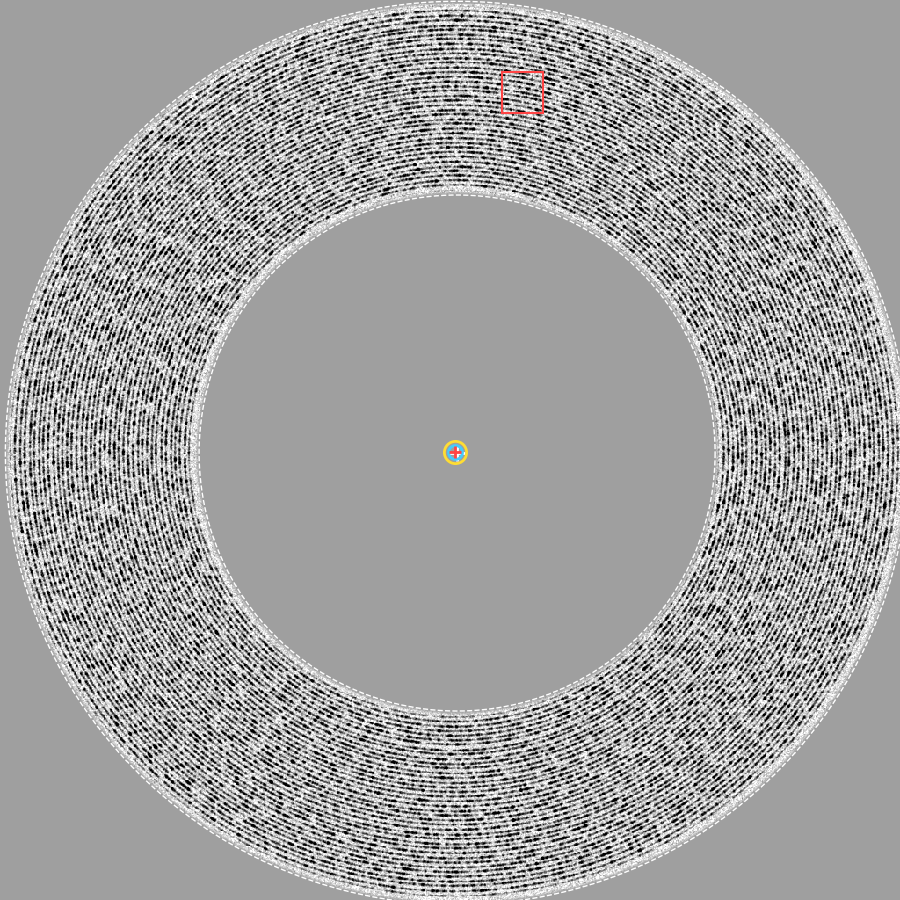
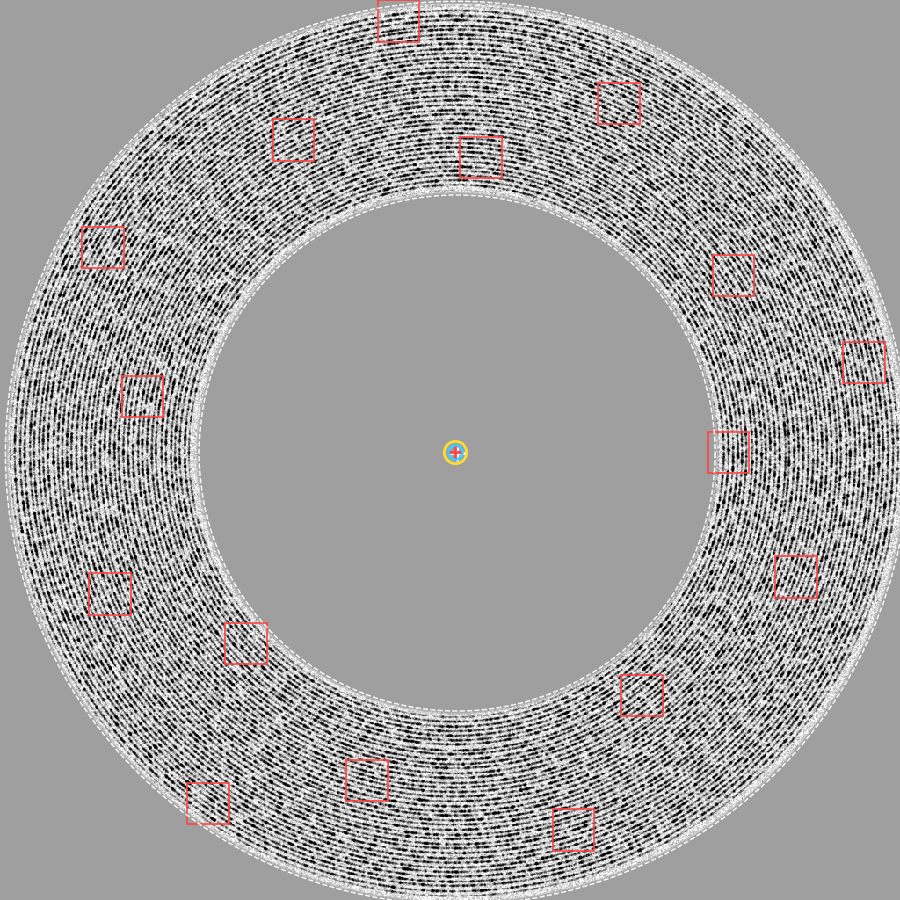
Card report step e: 16 clickable detail spots, polylines
Step a draws a box for each of 16 pre-built 256-px details (evenly spaced
turns at golden-angle steps; up to 4 moved to the longest wrong-groove
runs; crops clamped to the frame); clicking a box shows it in step e. The
details draw trace and truth as polylines over the whole spiral, clipped
by the axes, wrong-groove columns in magenta.

diff --git a/card.html b/card.html
@@ -12,6 +12,11 @@ th { color: #aaa; font-weight: 500; padding: 2px 8px; border-bottom: 1px solid #
 td { padding: 2px 8px; text-align: right; }
 th:first-child, td:first-child, td.src, th.src { text-align: left; }
 td.src { color: #888; }
+.pick { position: relative; width: 900px; border: 1px solid #333; line-height: 0; }
+.pick img { border: none; }
+.spot { position: absolute; box-sizing: border-box; border: 2px solid transparent; cursor: pointer; }
+.spot:hover { border-color: rgba(255,255,255,0.6); }
+.spot.on { border-color: #fff; }
 a { color: #8cf; } .note { color: #888; font-size: 12px; max-width: 1300px; }
 .w { color: #fff } .c { color: #4cf } .y { color: #fd3 } .r { color: #f44 } .g { color: #3e6 } .m { color: #f6f }
 </style></head><body>
@@ -25,13 +30,15 @@ Showcase: preset <b>Typical</b>, seed 1. <a href="index.html">← Experiments</a
 <p class="note">Errors against the simulated card's truth, full-resolution px. Ranges over the seeds listed.</p>
 
 <h2>1. Low resolution (1024², ×5.42): spacing, center, phase</h2>
-<div class="step"><img src="card/img/a_input.png"><div class="panel"><h4>a. Input: masked to the hand-marked annulus</h4><p>The full-res height map averaged over each low-res pixel (cv2.INTER_AREA), times a soft mask from the hand-marked circles (dashed), minus its mean, unit rms. An idealized card: flat, grain only.</p><p><span class='w'>White +</span> hand mark, <span class='c'>cyan</span> low-res fit, <span class='y'>yellow</span> refit, <span class='r'>red +</span> truth; red box: the detail spot.</p><p><span class='num'>Hand mark 12.1 px from the true center.</span></p></div></div>
+<div class="step"><div class="pick"><img src="card/img/a_input.png"><div class="spot" data-k="0" title="spot 1" style="left:78.634%;top:47.955%;width:4.612%;height:4.612%"></div><div class="spot" data-k="1" title="spot 2" style="left:25.005%;top:69.213%;width:4.612%;height:4.612%"></div><div class="spot" data-k="2" title="spot 3" style="left:51.162%;top:15.204%;width:4.612%;height:4.612%"></div><div class="spot" data-k="3" title="spot 4" style="left:69.015%;top:74.995%;width:4.612%;height:4.612%"></div><div class="spot" data-k="4" title="spot 5" style="left:13.529%;top:41.758%;width:4.612%;height:4.612%"></div><div class="spot" data-k="5" title="spot 6" style="left:79.211%;top:28.283%;width:4.612%;height:4.612%"></div><div class="spot" data-k="6" title="spot 7" style="left:38.462%;top:84.399%;width:4.612%;height:4.612%"></div><div class="spot" data-k="7" title="spot 8" style="left:30.319%;top:13.241%;width:4.612%;height:4.612%"></div><div class="spot on" data-k="8" title="spot 9" style="left:86.111%;top:61.791%;width:4.612%;height:4.612%"></div><div class="spot" data-k="9" title="spot 10" style="left:9.908%;top:63.718%;width:4.612%;height:4.612%"></div><div class="spot" data-k="10" title="spot 11" style="left:66.456%;top:9.188%;width:4.612%;height:4.612%"></div><div class="spot" data-k="11" title="spot 12" style="left:61.430%;top:89.912%;width:4.612%;height:4.612%"></div><div class="spot" data-k="12" title="spot 13" style="left:9.115%;top:25.185%;width:4.612%;height:4.612%"></div><div class="spot" data-k="13" title="spot 14" style="left:93.695%;top:37.975%;width:4.612%;height:4.612%"></div><div class="spot" data-k="14" title="spot 15" style="left:20.789%;top:86.993%;width:4.612%;height:4.612%"></div><div class="spot" data-k="15" title="spot 16" style="left:41.992%;top:0.000%;width:4.612%;height:4.612%"></div></div><div class="panel"><h4>a. Input: masked to the hand-marked annulus</h4><p>The full-res height map averaged over each low-res pixel (cv2.INTER_AREA), times a soft mask from the hand-marked circles (dashed), minus its mean, unit rms. An idealized card: flat, grain only.</p><p><span class='w'>White +</span> hand mark, <span class='c'>cyan</span> low-res fit, <span class='y'>yellow</span> refit, <span class='r'>red +</span> truth. Red boxes: the {len(spots)} detail spots of step e (spread evenly along the groove{', some where the trace is on the wrong groove' if wrong_spots else ''}); <b>click one</b> to show it in step e.</p><p><span class='num'>Hand mark 12.1 px from the true center.</span></p></div></div>
 <div class="step"><img src="card/img/b_fft.png"><div class="panel"><h4>b. FFT of a × 1/√r about the mark (central half of log |FFT|)</h4><p>Weighting by 1/√r keeps the outer turns from dominating. The rings sit at radius N/spacing. Dashed: the search window (±10% of nominal); <span class='c'>cyan</span>: the peak.</p></div></div>
 <div class="step"><img src="card/img/c_profile.png"><div class="panel"><h4>c. Radial profile → spacing</h4><p>Mean log |FFT| per radius; the spacing is the peak inside the window (grey), refined parabolically; more than 3% from the nominal → nominal used.</p><p>White dashed: nominal; <span class='r'>red</span>: true; <span class='c'>cyan</span>: measured.</p><p><span class='num'>Measured 29.019 px (+0.04% vs. true 29.007).</span></p></div></div>
-<div class="step"><img src="card/img/d_coherence.png"><div class="panel"><h4>d. Center, spacing and phase: the spiral coherence map</h4><p>Z(c) = −Σ v·e<sup>−i(|p−c|/b − angle(p−c))</sup> scores how well a spiral centered at c (spacing from c) lines up with the grooves. As a function of c it is a correlation of the image with a spiral-shaped kernel, so one FFT gives it at every pixel (~0.5 s); no search window, and the hand mark isn't needed.</p><p>Around the true center Z(c) ≈ a·J<sub>0</sub>(2π|c − c<sub>0</sub>|/S): a bright spot with fainter rings half a spacing apart. A least-squares fit of that pattern within 2.5 spacings of the brightest pixel gives the center; the phase is the angle of a.</p><p><span class='num'>Shown: |Z| around the answer. Answer 0.19 px from the true center (hand mark 12.1 px); coherence 0.64.</span></p></div></div>
+<div class="step"><img src="card/img/d_coherence.png"><div class="panel"><h4>d. Center, spacing and phase: the spiral coherence map</h4><p>Z(c) = −Σ v·e<sup>−i(|p−c|/b − angle(p−c))</sup> scores how well a spiral centered at c (spacing from c) lines up with the grooves. As a function of c it is a correlation of the image with a spiral-shaped kernel, so one FFT gives it at every pixel (~0.5 s); no search window, and the hand mark isn't needed.</p><p>Around the true center: a bright spot with fainter rings half a spacing apart. If the card is stretched (even 1%) the spot splits into lobes and the brightest pixel is off center, but the map stays symmetric under a 180° turn about the center. So the center is the map's center of point symmetry: |Z| minus its mean, times a Gaussian window (σ 10 spacings) about the brightest pixel, convolved with itself on a crop; the maximum is at twice the center. The phase is the angle of Z there.</p><p><span class='num'>Shown: |Z| around the answer. Answer 0.19 px from the true center (hand mark 12.1 px); coherence 0.64.</span></p></div></div>
 
 <h2>2. Full resolution: unrolled strip, refit, groove trace</h2>
-<div class="step"><img src="card/img/e_detail.png"><div class="panel"><h4>e. Detail at full resolution</h4><p><span class='r'>Red</span>: trace (<span class='m'>magenta</span>: wrong groove); <span class='g'>green</span>: true centerline. Darker = deeper: the depth follows the sound.</p></div></div>
+<div class="step"><img id="detail" src="card/img/e_detail_08.png"><div class="panel"><h4>e. Detail at full resolution (256 px)</h4>
+<p><span class='r'>Red</span>: trace (<span class='m'>magenta</span>: wrong groove); <span class='g'>green</span>: true centerline. Darker = deeper: the depth follows the sound.</p>
+<p>Click a red box in step a to choose the spot.</p><p class="num" id="detailInfo"></p></div></div>
 <div class="step"><img src="card/img/f_offsets.png"><div class="panel"><h4>f. Strip offsets and the geometry refit</h4><p>Columns every 3 px along the low-res spiral; each is a radial line sampled at ±1 spacing (cv2.remap), detrended and demodulated: Z = Σ v·e<sup>−2πid/S</sup> gives the groove's offset (mod S) and a confidence |Z|.</p><p>Relative to the strip's spiral a center error is a one-turn wave, a spacing error a slope, a phase error an offset. The refit (<span class='y'>yellow</span>) fits exactly that modulo S: a grid over spacing and center, then scipy least_squares with a robust loss. <span class='r'>Red</span>: the true geometry; <span class='g'>green</span>: true grooves; grey dots: measured (smoothed 24 px).</p><p><span class='num'>174,975 columns, 38.2 turns. Refit center 0.05 px, spacing +0.017%; spiral vs. grooves 1.97 px rms.</span></p></div></div>
 <div class="step"><img src="card/img/g_strip.png"><div class="panel"><h4>g. Unrolled strip around the spot</h4><p>Rows across the groove (1 px, outward up), each column's mean removed. <span class='y'>Yellow</span>: refitted spiral (±S faint); <span class='r'>red</span>: trace; <span class='g'>green</span>: true groove.</p></div></div>
 <div class="step"><img src="card/img/h_trace.png"><div class="panel"><h4>h. The trace: offset from the refitted spiral</h4><p>Z smoothed along the groove (σ 48 px); the trace takes the groove nearest a reference = refitted spiral + slowly varying residual (σ 300 px, within ±S/2), so noise and gaps can't move it to another turn.</p><p><span class='num'>Trace rms 0.50 px; wrong groove 0.00%.</span></p></div></div>
@@ -42,4 +49,16 @@ Showcase: preset <b>Typical</b>, seed 1. <a href="index.html">← Experiments</a
 
 <h2>Card parameters (Typical)</h2>
 <table><tr><th>Parameter</th><th>Value</th><th class='src'>Source</th></tr><tr><td>Frame size</td><td>5551 px</td><td class='src'>card ~5551² after crop (image 22)</td></tr><tr><td>Nominal groove spacing</td><td>29.0 px</td><td class='src'>measured 29.0 (image 21; FFT 29.1 on sonorine_001)</td></tr><tr><td>True spacing within ±</td><td>0.01 ×</td><td class='src'>assumed (cards 25.9–32.2 px across machines)</td></tr><tr><td>Inner groove radius</td><td>1600 px</td><td class='src'>image 22 (~1600)</td></tr><tr><td>Outer groove radius</td><td>2770 px</td><td class='src'>image 22 (~2770): ~40 turns</td></tr><tr><td>Card center vs. frame center (σ)</td><td>40 px</td><td class='src'>assumed</td></tr><tr><td>Hand-mark error (σ per axis)</td><td>12 px</td><td class='src'>assumed</td></tr><tr><td>Hand-marked radii error (σ)</td><td>0.01 ×</td><td class='src'>assumed</td></tr><tr><td>Groove width at nominal depth</td><td>0.6 × spacing</td><td class='src'>assumed; round stylus (parabola)</td></tr><tr><td>Depth fade at the ends</td><td>60 px</td><td class='src'>assumed</td></tr><tr><td>Sound: depth modulation (rms)</td><td>0.4 × depth</td><td class='src'>assumed; at −1 the stylus leaves the card</td></tr><tr><td>Sound wavelengths along the groove</td><td>15–300 px</td><td class='src'>assumed</td></tr><tr><td>Grain (rms)</td><td>0.52 × groove rms</td><td class='src'>measured: 2.6 vs. groove 5.0 rms (image 21)</td></tr><tr><td>Grain size</td><td>2.5 px</td><td class='src'>measured ACF 0.5 at ~3–5 px</td></tr><tr><td>Groove drift from the spiral (rms)</td><td>2.0 px</td><td class='src'>phase between turns varies ±2 px (image 21)</td></tr><tr><td>Drift periods</td><td>0.7–12 turns</td><td class='src'>assumed</td></tr><tr><td>Lateral wobble (rms)</td><td>0.3 px</td><td class='src'>assumed; small and smooth</td></tr><tr><td>Wobble wavelengths</td><td>200–3000 px</td><td class='src'>assumed</td></tr></table>
+<script>
+const spots = [{"src": "card/img/e_detail_00.png", "turn": 2.7, "radius": 1685, "wrong": 0}, {"src": "card/img/e_detail_01.png", "turn": 5.1, "radius": 1751, "wrong": 0}, {"src": "card/img/e_detail_02.png", "turn": 7.4, "radius": 1823, "wrong": 0}, {"src": "card/img/e_detail_03.png", "turn": 9.8, "radius": 1894, "wrong": 0}, {"src": "card/img/e_detail_04.png", "turn": 12.2, "radius": 1958, "wrong": 0}, {"src": "card/img/e_detail_05.png", "turn": 14.6, "radius": 2034, "wrong": 0}, {"src": "card/img/e_detail_06.png", "turn": 17.0, "radius": 2097, "wrong": 0}, {"src": "card/img/e_detail_07.png", "turn": 19.4, "radius": 2168, "wrong": 0}, {"src": "card/img/e_detail_08.png", "turn": 21.7, "radius": 2236, "wrong": 0}, {"src": "card/img/e_detail_09.png", "turn": 24.1, "radius": 2303, "wrong": 0}, {"src": "card/img/e_detail_10.png", "turn": 26.5, "radius": 2375, "wrong": 0}, {"src": "card/img/e_detail_11.png", "turn": 28.9, "radius": 2442, "wrong": 0}, {"src": "card/img/e_detail_12.png", "turn": 31.3, "radius": 2514, "wrong": 0}, {"src": "card/img/e_detail_13.png", "turn": 33.6, "radius": 2581, "wrong": 0}, {"src": "card/img/e_detail_14.png", "turn": 36.0, "radius": 2652, "wrong": 0}, {"src": "card/img/e_detail_15.png", "turn": 38.4, "radius": 2723, "wrong": 0}];
+function showSpot(k) {
+  const s = spots[k];
+  document.getElementById('detail').src = s.src;
+  document.getElementById('detailInfo').textContent = `Spot ${k + 1} of ${spots.length}: turn ${s.turn}, radius ${s.radius} px` +
+    (s.wrong ? `; ${s.wrong} trace columns here on the wrong groove.` : '; no wrong-groove columns here.');
+  document.querySelectorAll('.spot').forEach(e => e.classList.toggle('on', +e.dataset.k === k));
+}
+document.querySelectorAll('.spot').forEach(e => e.addEventListener('click', () => showSpot(+e.dataset.k)));
+showSpot(8);
+</script>
 </body></html>

diff --git a/procedure.html b/procedure.html
@@ -796,7 +796,7 @@ floored at &minus;1 (where nothing was cut, the depth carries no information).
 
 <h2>P3.7 How well it works</h2>
 <figure><img class="wide" src="card/img/d_coherence.png" alt=""><figcaption>Step d: |Z| around the answer (typical card, seed 1). White +: hand mark; cyan ring: the symmetry center; red +: truth.</figcaption></figure>
-<figure><img class="wide" src="card/img/e_detail.png" alt=""><figcaption>Step e: a 256-px full-res detail. The groove's depth follows the sound (dark: deep). Red: trace; green: true centerline.</figcaption></figure>
+<figure><img class="wide" src="card/img/e_detail_08.png" alt=""><figcaption>Step e: a 256-px full-res detail (one of 16 spots; click a box in step a of the report to switch). The groove&rsquo;s depth follows the sound (dark: deep). Red: trace (magenta: wrong groove); green: true centerline.</figcaption></figure>
 <figure><img class="wide" src="card/img/j_sound.png" alt=""><figcaption>Step j: the sound read from the groove's depth (red) against the truth (green).</figcaption></figure>
 <table>
 <tr><th>Preset (5 seeds)</th><th>Low-res center</th><th>Trace rms</th><th>Wrong groove</th><th>No cut</th><th>Sound readout corr.</th></tr>

diff --git a/cardlab/report.py b/cardlab/report.py
@@ -1,5 +1,8 @@
+import json
 from dataclasses import asdict
 from html import escape
+
+import numpy as np
 
 from . import figures
 from .params import PARAM_NOTES, PRESETS
@@ -21,6 +24,11 @@ th { color: #aaa; font-weight: 500; padding: 2px 8px; border-bottom: 1px solid #
 td { padding: 2px 8px; text-align: right; }
 th:first-child, td:first-child, td.src, th.src { text-align: left; }
 td.src { color: #888; }
+.pick { position: relative; width: 900px; border: 1px solid #333; line-height: 0; }
+.pick img { border: none; }
+.spot { position: absolute; box-sizing: border-box; border: 2px solid transparent; cursor: pointer; }
+.spot:hover { border-color: rgba(255,255,255,0.6); }
+.spot.on { border-color: #fff; }
 a { color: #8cf; } .note { color: #888; font-size: 12px; max-width: 1300px; }
 .w { color: #fff } .c { color: #4cf } .y { color: #fd3 } .r { color: #f44 } .g { color: #3e6 } .m { color: #f6f }
 """
@@ -72,31 +80,83 @@ def params_table(params):
     return "<table><tr><th>Parameter</th><th>Value</th><th class='src'>Source</th></tr>" + "".join(rows) + "</table>"
 
 
+def detail_spots(run, size):
+    # the spots of step e: position in the low-res image (fractions, for the
+    # clickable boxes in step a), and a description
+    spiral, scale, theta = run.refit, run.low.scale, run.strip.theta
+    trace_x, trace_y = figures.spiral_points(run.strip.spiral, theta, run.trace)
+    spots = []
+    for column in figures.detail_columns(run):
+        x, y = figures.detail_spot(run, column)
+        left, top = figures.detail_box(run, (x, y), size)
+        inside = (trace_x >= left) & (trace_x < left + size) & (trace_y >= top) & (trace_y < top + size)
+        spots.append({
+            "column": column, "x": float(x), "y": float(y),
+            "left": left / scale / run.low.image.shape[1], "top": top / scale / run.low.image.shape[0],
+            "size": size / scale / run.low.image.shape[0],
+            "turn": float((theta[column] - theta[0]) / figures.TAU + 1),
+            "radius": float(np.hypot(x - spiral.x, y - spiral.y)),
+            "wrong": int(np.sum(inside & run.score.wrong_groove)),
+        })
+    return spots
+
+
 def make_figures(run, folder, detail_size=256):
+    spots = detail_spots(run, detail_size)
     steps = {
-        "a_input": lambda p: figures.low_res_input(run, p, detail_size),
+        "a_input": lambda p: figures.low_res_input(run, p, detail_size, [(s["x"], s["y"]) for s in spots]),
         "b_fft": lambda p: figures.spectrum(run, p),
         "c_profile": lambda p: figures.radial_profile(run, p),
         "d_coherence": lambda p: figures.coherence_map(run, p),
-        "e_detail": lambda p: figures.detail(run, p, detail_size),
         "f_offsets": lambda p: figures.offsets_mod_spacing(run, p),
         "g_strip": lambda p: figures.strip_image(run, p),
         "h_trace": lambda p: figures.trace_offset(run, p),
         "i_turns": lambda p: figures.errors_per_turn(run, p),
         "j_sound": lambda p: figures.sound(run, p),
     }
-    paths = {}
+    for k, spot in enumerate(spots):
+        steps[f"e_detail_{k:02d}"] = lambda p, spot=spot: figures.detail(run, p, detail_size, (spot["x"], spot["y"]))
     for name, draw in steps.items():
-        path = folder / f"{name}.png"
-        draw(path)
-        paths[name] = path
-    return paths
+        draw(folder / f"{name}.png")
+    for k, spot in enumerate(spots):
+        spot["image"] = f"e_detail_{k:02d}"
+    return spots
 
 
-def write_report(path, run, summary, results, image_folder):
+def picker_step(image, spots, selected, title, *paragraphs):
+    # step a with a clickable box over each detail spot
+    boxes = "".join(
+        f'<div class="spot{" on" if k == selected else ""}" data-k="{k}" title="spot {k + 1}" style="left:{100 * s["left"]:.3f}%;'
+        f'top:{100 * s["top"]:.3f}%;width:{100 * s["size"]:.3f}%;height:{100 * s["size"]:.3f}%"></div>'
+        for k, s in enumerate(spots))
+    notes = "".join(f"<p>{p}</p>" for p in paragraphs)
+    return f'<div class="step"><div class="pick"><img src="{image}">{boxes}</div><div class="panel"><h4>{title}</h4>{notes}</div></div>'
+
+
+def spot_script(spots, image_folder, selected):
+    data = [{"src": f"{image_folder}/{s['image']}.png", "turn": round(s["turn"], 1), "radius": round(s["radius"]),
+             "wrong": s["wrong"]} for s in spots]
+    return f"""<script>
+const spots = {json.dumps(data)};
+function showSpot(k) {{
+  const s = spots[k];
+  document.getElementById('detail').src = s.src;
+  document.getElementById('detailInfo').textContent = `Spot ${{k + 1}} of ${{spots.length}}: turn ${{s.turn}}, radius ${{s.radius}} px` +
+    (s.wrong ? `; ${{s.wrong}} trace columns here on the wrong groove.` : '; no wrong-groove columns here.');
+  document.querySelectorAll('.spot').forEach(e => e.classList.toggle('on', +e.dataset.k === k));
+}}
+document.querySelectorAll('.spot').forEach(e => e.addEventListener('click', () => showSpot(+e.dataset.k)));
+showSpot({selected});
+</script>"""
+
+
+def write_report(path, run, summary, results, image_folder, spots):
     img = lambda name: f"{image_folder}/{name}.png"
     s = summary
     card, low = run.card, run.low
+    middle = len(run.strip.theta) // 2
+    selected = int(np.argmin([abs(spot["column"] - middle) for spot in spots]))
+    wrong_spots = sum(1 for spot in spots if spot["wrong"])
     body = f"""
 <h1>Spiral: an idealized card, whole pipeline</h1>
 <p class="note">Built by <code>python build_card.py</code> (cardlab/, Python) and committed as static images.
@@ -108,9 +168,9 @@ Showcase: preset <b>{escape(card.params.label)}</b>, seed {card.seed}. <a href="
 <p class="note">Errors against the simulated card's truth, full-resolution px. Ranges over the seeds listed.</p>
 
 <h2>1. Low resolution (1024², ×{low.scale:.2f}): spacing, center, phase</h2>
-{step(img("a_input"), "a. Input: masked to the hand-marked annulus",
+{picker_step(img("a_input"), spots, selected, "a. Input: masked to the hand-marked annulus",
       "The full-res height map averaged over each low-res pixel (cv2.INTER_AREA), times a soft mask from the hand-marked circles (dashed), minus its mean, unit rms. An idealized card: flat, grain only.",
-      "<span class='w'>White +</span> hand mark, <span class='c'>cyan</span> low-res fit, <span class='y'>yellow</span> refit, <span class='r'>red +</span> truth; red box: the detail spot.",
+      "<span class='w'>White +</span> hand mark, <span class='c'>cyan</span> low-res fit, <span class='y'>yellow</span> refit, <span class='r'>red +</span> truth. Red boxes: the {len(spots)} detail spots of step e (spread evenly along the groove{', some where the trace is on the wrong groove' if wrong_spots else ''}); <b>click one</b> to show it in step e.",
       f"<span class='num'>Hand mark {s['mark_error']:.1f} px from the true center.</span>")}
 {step(img("b_fft"), "b. FFT of a × 1/√r about the mark (central half of log |FFT|)",
       "Weighting by 1/√r keeps the outer turns from dominating. The rings sit at radius N/spacing. Dashed: the search window (±10% of nominal); <span class='c'>cyan</span>: the peak.")}
@@ -124,8 +184,9 @@ Showcase: preset <b>{escape(card.params.label)}</b>, seed {card.seed}. <a href="
       f"<span class='num'>Shown: |Z| around the answer. Answer {s['low_center_error']:.2f} px from the true center (hand mark {s['mark_error']:.1f} px); coherence {s['coherence']:.2f}.</span>")}
 
 <h2>2. Full resolution: unrolled strip, refit, groove trace</h2>
-{step(img("e_detail"), "e. Detail at full resolution",
-      "<span class='r'>Red</span>: trace (<span class='m'>magenta</span>: wrong groove); <span class='g'>green</span>: true centerline. Darker = deeper: the depth follows the sound.")}
+<div class="step"><img id="detail" src="{image_folder}/{spots[selected]['image']}.png"><div class="panel"><h4>e. Detail at full resolution (256 px)</h4>
+<p><span class='r'>Red</span>: trace (<span class='m'>magenta</span>: wrong groove); <span class='g'>green</span>: true centerline. Darker = deeper: the depth follows the sound.</p>
+<p>Click a red box in step a to choose the spot.</p><p class="num" id="detailInfo"></p></div></div>
 {step(img("f_offsets"), "f. Strip offsets and the geometry refit",
       f"Columns every {run.strip.step:g} px along the low-res spiral; each is a radial line sampled at ±1 spacing (cv2.remap), detrended and demodulated: Z = Σ v·e<sup>−2πid/S</sup> gives the groove's offset (mod S) and a confidence |Z|.",
       "Relative to the strip's spiral a center error is a one-turn wave, a spacing error a slope, a phase error an offset. The refit (<span class='y'>yellow</span>) fits exactly that modulo S: a grid over spacing and center, then scipy least_squares with a robust loss. <span class='r'>Red</span>: the true geometry; <span class='g'>green</span>: true grooves; grey dots: measured (smoothed 24 px).",
@@ -145,5 +206,6 @@ Showcase: preset <b>{escape(card.params.label)}</b>, seed {card.seed}. <a href="
 
 <h2>Card parameters ({escape(card.params.label)})</h2>
 {params_table(card.params)}
+{spot_script(spots, image_folder, selected)}
 """
     path.write_text(f"<!doctype html><html lang='en'><head><meta charset='utf-8'><title>Spiral: idealized card</title><style>{STYLE}</style></head><body>{body}</body></html>")

diff --git a/cardlab/figures.py b/cardlab/figures.py
@@ -51,9 +51,39 @@ def circle(axes, x, y, radius, color, dashed=True):
     axes.plot(x + radius * np.cos(angle), y + radius * np.sin(angle), "--" if dashed else "-", color=color, lw=1)
 
 
-def detail_spot(run):
-    middle = len(run.strip.theta) // 2
-    return spiral_points(run.strip.spiral, run.strip.theta[middle], run.trace[middle])
+def detail_spot(run, column=None):
+    column = len(run.strip.theta) // 2 if column is None else column
+    return spiral_points(run.strip.spiral, run.strip.theta[column], run.trace[column])
+
+
+def detail_box(run, spot, size):
+    # top-left corner of the size x size crop about a spot, kept inside the frame
+    height, width = run.image.shape
+    return (int(np.clip(spot[0] - size / 2, 0, width - size)), int(np.clip(spot[1] - size / 2, 0, height - size)))
+
+
+def wrong_runs(wrong):
+    # (start, end) column ranges where the trace is on the wrong groove, longest first
+    edges = np.flatnonzero(np.diff(np.concatenate([[0], wrong.astype(int), [0]])))
+    runs = list(zip(edges[::2], edges[1::2]))
+    return sorted(runs, key=lambda run: run[0] - run[1])
+
+
+def detail_columns(run, count=16, wrong_spots=4):
+    # spot k: turn (k + 1/2) / count of the way out, at angle k x the golden
+    # angle (evenly along the groove alone would repeat a few angles); up to
+    # `wrong_spots` of them replaced by the middles of the longest wrong-groove runs
+    theta = run.strip.theta
+    golden = TAU * (1 - 1 / ((1 + 5**0.5) / 2))
+    columns = []
+    for k in range(count):
+        target = theta[0] + (k + 0.5) / count * (theta[-1] - theta[0])
+        angle = target + run.strip.spiral.phase  # angle about the center, as in strip.refit_basis
+        target += wrap(k * golden - angle, TAU)
+        columns.append(int(np.clip(np.searchsorted(theta, target), 0, len(theta) - 1)))
+    for k, (start, end) in enumerate(wrong_runs(run.score.wrong_groove)[:wrong_spots]):
+        columns[count - 1 - k] = (start + end) // 2
+    return sorted(columns)
 
 
 def strip_window(run, columns):
@@ -65,7 +95,7 @@ def strip_window(run, columns):
 # ---------- Low resolution ----------
 
 
-def low_res_input(run, path, detail_size):
+def low_res_input(run, path, detail_size, spots):
     low, card, scale = run.low, run.card, run.low.scale
     figure = new_figure(900, 900)
     axes = image_axes(figure)
@@ -76,9 +106,9 @@ def low_res_input(run, path, detail_size):
     plot_ring(axes, low.spiral.x / scale, low.spiral.y / scale, COLORS["low"], 10)
     plot_ring(axes, run.refit.x / scale, run.refit.y / scale, COLORS["refit"], 16)
     plot_cross(axes, card.spiral.x / scale, card.spiral.y / scale, COLORS["truth"], 9)
-    spot_x, spot_y = detail_spot(run)
-    half = detail_size / 2 / scale
-    axes.add_patch(plt.Rectangle((spot_x / scale - half, spot_y / scale - half), 2 * half, 2 * half, fill=False, color=COLORS["truth"], lw=1.5))
+    for spot in spots:
+        left, top = detail_box(run, spot, detail_size)
+        axes.add_patch(plt.Rectangle((left / scale, top / scale), detail_size / scale, detail_size / scale, fill=False, color=COLORS["truth"], lw=1.2))
     axes.set_xlim(0, low.image.shape[1])
     axes.set_ylim(low.image.shape[0], 0)
     save(figure, path)
@@ -135,19 +165,20 @@ def coherence_map(run, path, half_width=30):
 # ---------- Full resolution ----------
 
 
-def detail(run, path, size):
-    spot_x, spot_y = detail_spot(run)
-    left, top = int(spot_x - size / 2), int(spot_y - size / 2)
+def detail(run, path, size, spot):
+    # the whole spiral as polylines (consecutive columns are neighbours along the
+    # groove), clipped by the axes; wrong-groove stretches in magenta, with dots
+    # so that a single wrong column still shows
+    left, top = detail_box(run, spot, size)
     figure = new_figure(900, 900)
     axes = image_axes(figure)
     show_grey(axes, run.image[top : top + size, left : left + size], extent=(left, left + size, top + size, top))
     trace_x, trace_y = spiral_points(run.strip.spiral, run.strip.theta, run.trace)
     true_x, true_y = spiral_points(run.strip.spiral, run.strip.theta, run.score.true_offset)
-    inside = (np.abs(trace_x - spot_x) < size / 2) & (np.abs(trace_y - spot_y) < size / 2)
-    axes.plot(true_x[inside], true_y[inside], ".", color=COLORS["true"], ms=4)
-    axes.plot(trace_x[inside], trace_y[inside], ".", color=COLORS["trace"], ms=4)
-    wrong = inside & run.score.wrong_groove
-    axes.plot(trace_x[wrong], trace_y[wrong], ".", color="#f0f", ms=5)
+    wrong = run.score.wrong_groove
+    axes.plot(true_x, true_y, "-", color=COLORS["true"], lw=1.5)
+    axes.plot(trace_x, trace_y, "-", color=COLORS["trace"], lw=1.5)
+    axes.plot(np.where(wrong, trace_x, np.nan), np.where(wrong, trace_y, np.nan), ".-", color="#f0f", lw=2, ms=4)
     axes.set_xlim(left, left + size)
     axes.set_ylim(top + size, top)
     save(figure, path)

diff --git a/build_card.py b/build_card.py
@@ -62,8 +62,10 @@ def main():
     save_results(results)
 
     IMAGES.mkdir(parents=True, exist_ok=True)
-    make_figures(showcase, IMAGES)
-    write_report(ROOT / "card.html", showcase, results[showcase_key], list(results.values()), "card/img")
+    for old in IMAGES.glob("e_detail*.png"):
+        old.unlink()
+    spots = make_figures(showcase, IMAGES)
+    write_report(ROOT / "card.html", showcase, results[showcase_key], list(results.values()), "card/img", spots)
     print("wrote card.html")
 
 

diff --git a/CLAUDE.md b/CLAUDE.md
@@ -100,7 +100,14 @@ Pages serves them (nothing is built on GitHub).
   refit: grid start + scipy least_squares with soft_l1 on wrapped
   residuals, lock_trace), `readout.py` (sound), `scoring.py` (truth),
   `pipeline.py` (run_pipeline, summarize), `figures.py` (matplotlib, one
-  function per step figure), `report.py` (HTML).
+  function per step figure), `report.py` (HTML): step e is 16 pre-built
+  256-px details (`figures.detail_columns`: evenly spaced turns at golden-
+  angle steps, up to 4 replaced by the longest wrong-groove runs;
+  `e_detail_00..15.png`, crops clamped to the frame). Step a draws their
+  boxes; clicking one (HTML boxes over the image, small script) swaps step
+  e. The detail draws trace and truth as polylines over the whole spiral,
+  clipped by the axes (consecutive columns are neighbours along the
+  groove), wrong-groove columns in magenta.
 - Sanity check against the JS version: `checks/compare_with_js.sh [preset]
   [seed]` (needs node — on the Mac via nvm in Terminal; ~2 min) dumps the
   Python pipeline's inputs and intermediates and feeds the same inputs to
